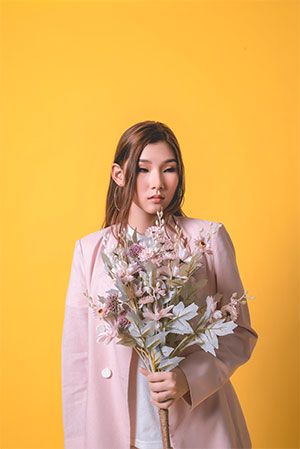
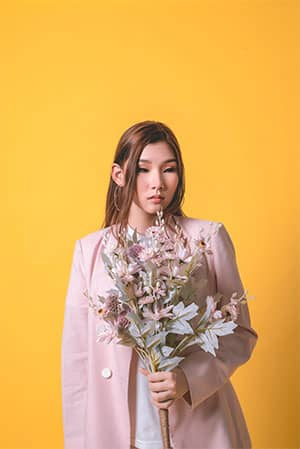
fix: optimisation

diff --git a/index.html b/index.html
@@ -124,7 +124,7 @@
         <div class="collections-grid">
           <div class="collections-grid__item collections-grid__item_big">
             <img
-              src="img/collection-01.png"
+              src="img/collection-01.jpg"
               alt="Фотография девушки с цветами"
               class="picture collections__image"
             />
@@ -132,7 +132,7 @@
           <!-- /.collections-grid__item -->
           <div class="collections-grid__item">
             <img
-              src="img/collection-02.png"
+              src="img/collection-02.jpg"
               alt="Фотография обеденного зала"
               class="picture collections__image"
             />
@@ -140,7 +140,7 @@
           <!-- /.collections-grid__item -->
           <div class="collections-grid__item">
             <img
-              src="img/collection-03.png"
+              src="img/collection-03.jpg"
               alt="Фотография с интерьером комнаты"
               class="picture collections__image"
             />
